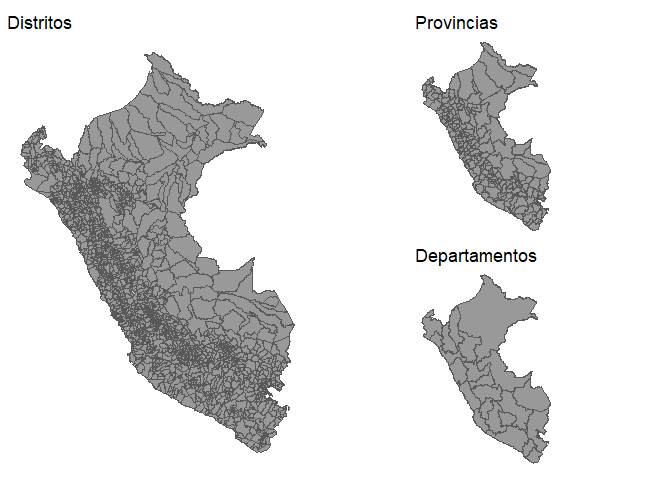
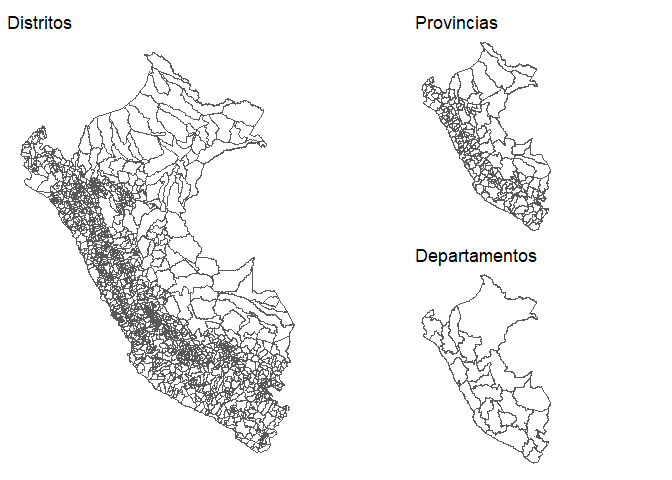
update readme

Changed region(s): [[0.0312, 0.0938, 0.4375, 0.9375], [0.625, 0.0938, 0.8438, 0.5], [0.625, 0.5625, 0.8125, 0.9688]]

diff --git a/README.md b/README.md
@@ -87,7 +87,7 @@ library(ggplot2)
 library(PeruData)
 fst_plot <- \(.map, .titl){
   ggplot(.map) +
-    geom_sf(fill = "gray60") +
+    geom_sf(fill = "white") +
     theme_void() +
     labs(title = {{.titl}}) +
     theme(
@@ -103,14 +103,14 @@ prov <- fst_plot(map_peru_prov, "Provincias")
 dist <- fst_plot(map_peru_dist, "Distritos")
 ```
 
+</details>
+
 ``` r
 library(patchwork)
 dist + (prov / depa)
 ```
 
 ![](README_files/figure-gfm/unnamed-chunk-7-1.png)<!-- -->
-
-</details>
 
 # Instituo Geofisico del Peru (IGP)
 
